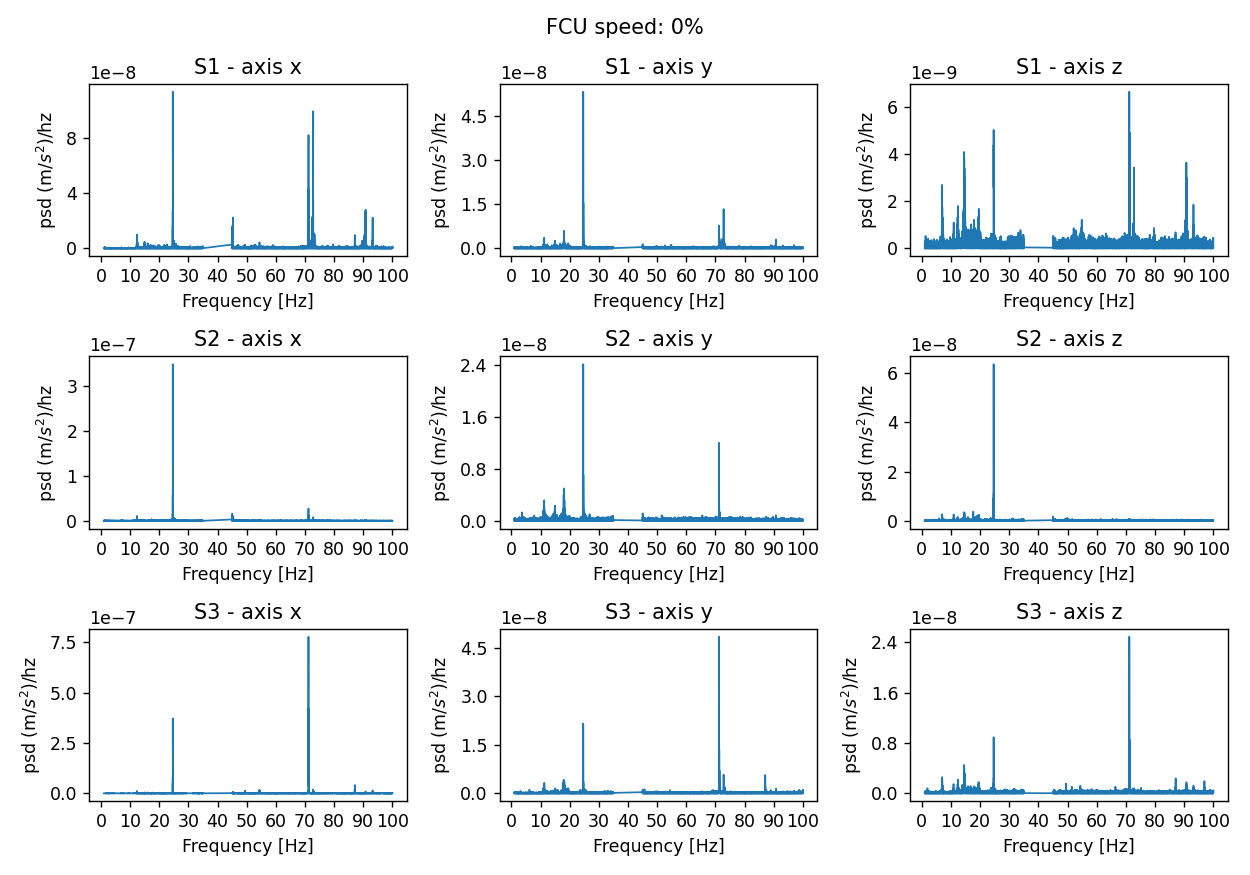
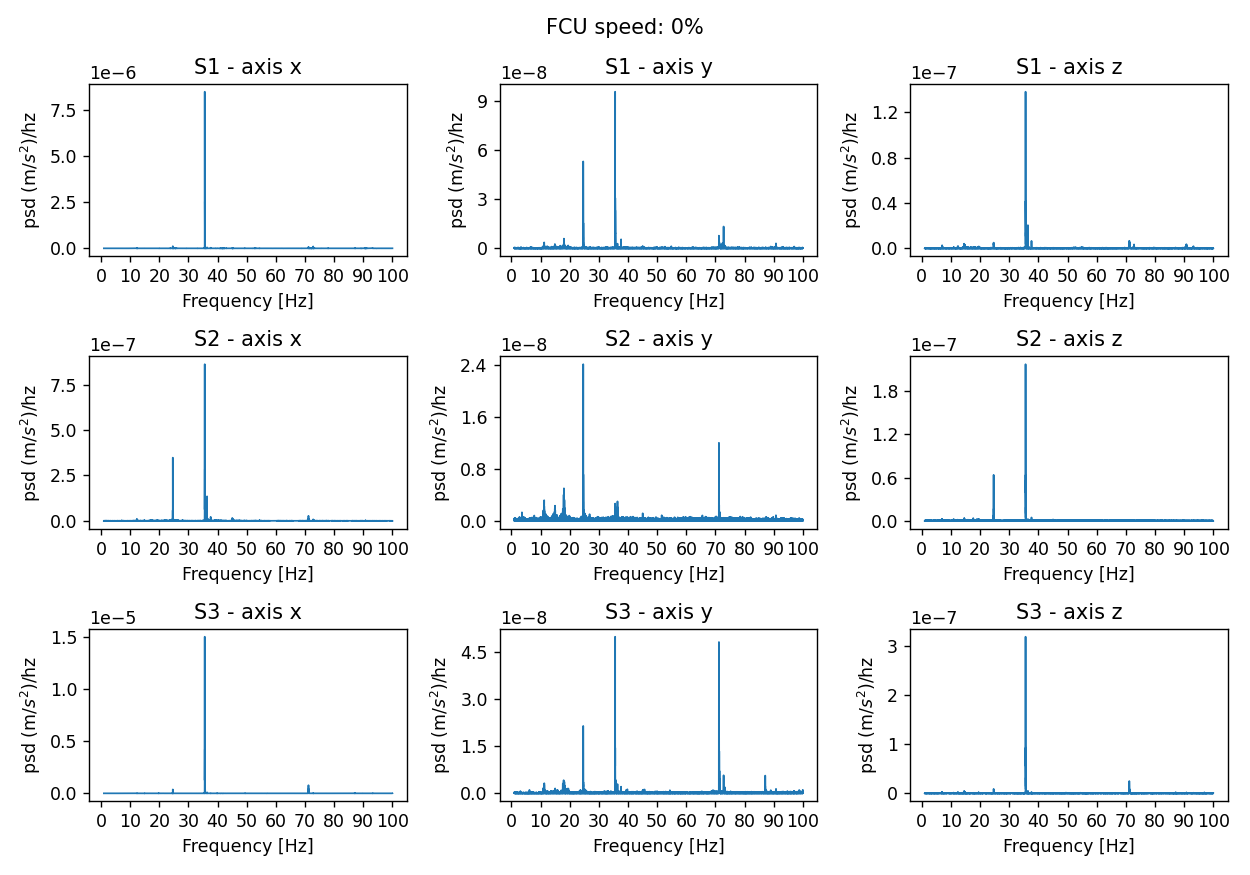
update tech note and add plots

diff --git a/index.rst b/index.rst
@@ -16,8 +16,8 @@ Investigation into vibrations in the M1M3 due to FCUs
 
    **This technote is a work-in-progress.**
 
-Abstract
-========
+Introduction
+============
 
 .. Assuming units of VMS = mg
 .. -displacement for total_1
@@ -31,8 +31,15 @@ Abstract
 ..  FCU off = 1.94 μm
 
 
-This technote uses data from the VMS, dc accelerometers and IMS to estimate the effect of the Fan Coil Units (FCUs) are likely to have on image quality
-Primarily we use the Vibration Monitoring System (VMS) of the M1M3 for more information see the VMS confluence page (link here).
+This technote uses data from the VMS, dc accelerometers and IMS to estimate the effect of the Fan Coil Units (FCUs) are likely to have on image quality.
+Primarily we use the Vibration Monitoring System (VMS) attached to M1M3 (for more information see the 
+`VMS confluence page <https://confluence.lsstcorp.org/pages/viewpage.action?pageId=156502157>`_).
+The description of the FCU is avaiable in 
+`SPIE 77331E <https://www.spiedigitallibrary.org/conference-proceedings-of-spie/7733/77331E/LSST-primarytertiary-mirror-thermal-control-system/10.1117/12.857438.short#_=_>`_.
+
+The VMS data are stored in a single hdf5 data file (/sdf/data/rubin/shared/mtm1m3_test_files/vms_data/2023/12/M1M3-2023-12-07T00:00.hdf) acquired on 2023/12/07. A description of the 
+data taking procedure with exact timing is available in a log file attached to the JIRA ticket `SITCOM-1131 <https://rubinobs.atlassian.net/browse/SITCOM-1131>`_ associated to this Technical Note. 
+The timing of each data taking period corresponding to the various fan speeds expressed in percent of the maximum speed is deduced from the log file.
 
 Times of events
 ================
@@ -45,8 +52,6 @@ Times of events
    |FCU state| Start Time             | End Time               |
    +=========+========================+========================+
    |       0 | 2023-12-07 14:20:00.00 | 2023-12-07 14:30:00.00 |
-   +---------+------------------------+------------------------+
-   |     100 | 2023-12-07 14:33:00.00 | 2023-12-07 14:50:00.00 |
    +---------+------------------------+------------------------+
    |      10 | 2023-12-07 14:55:30.00 | 2023-12-07 14:59:55.00 |
    +---------+------------------------+------------------------+
@@ -62,18 +67,37 @@ Times of events
    +---------+------------------------+------------------------+
    |      70 | 2023-12-07 15:26:05.00 | 2023-12-07 15:30:00.00 |
    +---------+------------------------+------------------------+
-   |      80 | 2023-12-07 15:30:05.00 | 2023-12-07 15:40:00.00 |
+   |      80 | 2023-12-07 15:31:05.00 | 2023-12-07 15:40:00.00 |
    +---------+------------------------+------------------------+
-   |      90 | 2023-12-07 15:40:40.00 | 2023-12-07 15:43:40.00 |
+   |      90 | 2023-12-07 17:48:55.00 | 2023-12-07 17:50:10.00 |
    +---------+------------------------+------------------------+
-   |      90 | 2023-12-07 15:48:55.00 | 2023-12-07 15:50:10.00 |
+   |     100 | 2023-12-07 14:33:00.00 | 2023-12-07 14:45:00.00 |
    +---------+------------------------+------------------------+
-   |     100 | 2023-12-07 15:53:00.00 | 2023-12-07 16:09:00.00 |
+   |     100 | 2023-12-07 17:51:30.00 | 2023-12-07 17:53:00.00 |
    +---------+------------------------+------------------------+
+
+Data quality
+============
+We have checked that the TMA was not moving during this test and that the mirror was raised (MTM1M3.logevent_detailedState == ACTIVEENGINEERING) with Hard Point in standby mode. 
+
+The second test was to check the VMS accelerometers sampling rate which is supposed to be 200 Hz. To do so, we compute the time difference (*delta t*) between consecutive samples.
+In the following plot (left), we see that while most of the samples are separated by ~0.005s (200 Hz), some samples are separated by ~0.00444s. If we plot *delta t* as a function of 
+the sample number (right plot) we see that this feature is periodic and could potentially impact the PSD analyses. This issue has been reported as a bug in the JIRA ticket 
+`DM-43219 <https://rubinobs.atlassian.net/browse/DM-43219>`_. Petr Kubanek pointed that the 200 Hz sampling rate is fixed by the hardware, so the observed behavior is probably due to a 
+wrong timestamp recording and will not affect the PSD analyses.
+
+.. figure:: /_static/images/sampling.png
+   :name: sampling
+   :target: _images/sampling.png
+   :alt: VMS sampling rate verification.
+
+   Histogram of the time between consecutive samples (left) - Time between consecutive samples as a function of the sample number (right).
+
 
 First event All 100% vs off
 ===========================
-The first event we look at is comparing the state with no fans on and the state will all fans running at 100%.
+We compare the state with fans off (0%) and the state will all fans running at 100% for various sensors.
+In the first plot the quantity refered as the total acceleration correspond to the norm of the acceleration vector measured by the accelerometers.
 
 Telemetry
 ---------
@@ -83,107 +107,163 @@ Telemetry
    :target: _images/vms_telemetry_1.png
    :alt: event 1 vms telemetry
 
-   VMS telemetry for all FCUs at 100% (blue) and all off (orange).
+   VMS total acceleration (norm of the acceleration vector) for all FCUs at 100% (blue) and all off (orange).
 
 .. figure:: /_static/images/hardpoints_telemetry_1.png
    :name: fig-hardpoints-telemetry-1
    :target: _images/hardpoints_telemetry_1.png
    :alt: event 1 hardpoints telemetry
 
-   hardpoints telemetry for all FCUs at 100% (blue) and all off (orange).
+   Hardpoints forces for all FCUs at 100% (blue) and all off (orange).
 
 .. figure:: /_static/images/dc_accelerometers_telemetry_1.png
    :name: fig-dc-accelerometers-telemetry-1
    :target: _images/dc_accelerometers_telemetry_1.png
    :alt: event 1 dc accelerometers telemetry
 
-   dc accelerometers telemetry for all FCUs at 100% (blue) and all off (orange).
+   Acceleration measured by dc accelerometers for all FCUs at 100% (blue) and all off (orange).
 
-See appendix for IMS behavior the system was not sensitive to vibrations.
+We clearly see that the FCU running at 100% has a measurable effect on M1M3. In the following section we will try to characterize this effect
+and check how it behaves while varying the fan speed.
+
 
 PSD analysis
+============
+
+For clarity reason and as we have multiple plots corresponding to the three sensors (accelerometers) each measuring the acceleration along 3 axes and for 11 values of the fan speed we
+choose to show only typical plots in this section. The whole set of plots will be given in the appendix.
+
+Acceleration
 ------------
 
-.. figure:: /_static/images/vms_psd_1.png
-   :name: fig-vms-psd-1
-   :target: _images/vms_psd_1.png
-   :alt: event 1 vms psd
+In the following plot we show the PSD acceleration for sensor 1 - z axis and for every fan speed. We see that there is a narrow peak at about 38 Hz which is visible
+for almost every speed. As the peak is present when the fans are not running, it is clear that its origin is not rekated to the FCU.
 
-   VMS psd for all FCUs at 100% (blue) and all off (orange).
+.. figure:: /_static/images/psd_sensor_3_axis_z.png
+   :name: psd_sensor_3_axis_z
+   :target: _images/psd_sensor_3_axis_z.png
+   :alt: PSD acceleration for sensor 3 - z axis and for every fan speed
 
-.. figure:: /_static/images/hardpoints_psd_1.png
-   :name: fig-hardpoints-psd-1
-   :target: _images/hardpoints_psd_1.png
-   :alt: event 1 hardpoints psd
+   PSD acceleration for sensor 3 - z axis and for every fan speed
 
-   hardpoints psd for all FCUs at 100% (blue) and all off (orange).
+The only significant feature which is likely related to the fan speed is the broad peak which appears at 80% speed and which moves from ~40 Hz at 80%, ~65 Hz at 90% and 
+up to ~98 Hz at 100% speed (notice that the peak at 98 Hz is present in both datasets acquired at 100% speed and taken more than 2 hours apart).
+The same behavior is observed in most of the cases (sensors and axes). The most pronounced effect is along the z axis.
 
-.. figure:: /_static/images/dc_accelerometers_psd_1.png
-   :name: fig-dc-accelerometers-psd-1
-   :target: _images/dc_accelerometers_psd_1.png
-   :alt: event 1 dc accelerometers psd
+For comparison we show the same plot but for sensor 1 and y axis.
 
-   dc accelerometers psd for all FCUs at 100% (blue) and all off (orange).
+.. figure:: /_static/images/psd_sensor_1_axis_y.png
+   :name: psd_sensor_1_axis_y
+   :target: _images/psd_sensor_1_axis_y.png
+   :alt: PSD acceleration for sensor 1 - y axis and for every fan speed
 
-VMS low frequency
------------------
+   PSD acceleration for sensor 1 - y axis and for every fan speed
 
-.. figure:: /_static/images/vms_telemetry_zoom_1.png
-   :name: fig-vms-telemetry-zoom-1
-   :target: _images/vms_telemetry_zoom_1.png
-   :alt: event 1 vms telemetry zoom
+The following plot is showing the PSD acceleration for a fan speed set at 80% and for the 3 sensors and the 3 axes. 
 
-   VMS telemetry zoom for all FCUs at 100% (blue) and all off (orange). We see a low frequency oscillation that could be beating due to variations in the FCU frequencies.
+.. figure:: /_static/images/psd_speed_80.png
+   :name: psd_speed_80
+   :target: _images/psd_speed_80.png
+   :alt: PSD acceleration for a fan speed set at 80% and for the 3 sensors and the 3 axes
 
-PSD analysis for FCUs powered at different speeds
-=================================================
-First we show PSDs (nomalized to have a peak of 1) for each fan state and each channel.
+   PSD acceleration for a fan speed set at 80% and for the 3 sensors and the 3 axes
 
-.. figure:: /_static/images/total_1_psd_comp.png
-   :name: fig-total-psd-comp-1
-   :target: _images/total_1_psd_comp.png
-   :alt: compare psd across fan states
+The appearance of the broad peak around 40 Hz is clearly visible in all cases. The effect is nevertheless much less pronounced for Sensor 2. 
 
-   The legend shows the commanded power for each line (going from off, 0%, to full power, 100%). This data is the total acceleration from channel 1 M1M3 VMS.
+Displacement
+------------
 
-.. figure:: /_static/images/total_2_psd_comp.png
-   :name: fig-total-psd-comp-2
-   :target: _images/total_2_psd_comp.png
-   :alt: compare psd across fan states
+The following plot shows the cumulative displacement computed for Sensor 1 and x axis:
 
-   The legend shows the commanded power for each line (going from off, 0%, to full power, 100%). This data is the total acceleration from channel 2 M1M3 VMS.
+.. figure:: /_static/images/psd_cumul_disp_sensor_1_axis_x.png
+   :name: psd_cumul_disp_sensor_1_axis_x
+   :target: _psd_cumul_disp_sensor_1_axis_x.png
+   :alt: Cumulative displacement for Sensor 1 and x axis
 
-.. figure:: /_static/images/total_3_psd_comp.png
-   :name: fig-total-psd-comp-3
-   :target: _images/total_3_psd_comp.png
-   :alt: compare psd across fan states
+   Cumulative displacement for Sensor 1 and x axis
 
-   The legend shows the commanded power for each line (going from off, 0%, to full power, 100%). This data is the total acceleration from channel 3 M1M3 VMS.
+As expected the highest contributions to the displacement is coming from the the low frequencies. The effect of the FCU on the displacement is only noticeable for the first dataset
+with fans running at 100% speed. This effect is not visible in the second 100% speed dataset (which is much shorter). The same behavior is observable for all the sensors and all
+the axes.
 
-.. figure:: /_static/images/displacement_comp.png
-   :name: fig-displacement-comp
-   :target: _images/displacement_comp.png
+Conclusions
+===========
 
-   Comparison of the displacement rms for all frequencies above 1 Hz as a function of fan power state, each row shows the behavior for one of the VMS channels.
+From this study we conclude that we see an effect of the FCU when running at 100% speed. The PSD analysis exhibits a broad peak in the spectrum for speeds
+larger than 80% of the maximium speed. The contribution of this peak to the mirror displacement is negligeable at all speeds and the only sigificant contribution to the displacement
+is seen at 100% speed, probably coming from the lower frequencies.
 
-.. figure:: /_static/images/duration_comp.png
-   :name: fig-duration-comp
-   :target: _images/duration_comp.png
+The significance of this analysis is limited by the size of the dataset and the fact that we only have one set of measurements per speed (2 for 100%). It is difficult to disentangle
+the effect of contributions external to the FCU.
 
-   Comparison of the duration of the measurement window for the measurement of the VMS telemetry a function of fan power state.
+The measurements will have to be repeated when the glass mirror is in place.
 
 Appendix
 =========
-.. figure:: /_static/images/ims_positions_1.png
-   :name: fig-ims-positions
-   :target: _images/ims_positions_1.png
-   :alt: event 1 IMS positions telemetry
 
-   IMS positions during event 1
+In this appendix we put all the plots corresponding to the PSD analysis for the 3 sensors and the 3 axes.
 
-.. figure:: /_static/images/ims_rotations_1.png
-   :name: fig-ims-rotations
-   :target: _images/ims_rotations_1.png
-   :alt: event 1 IMS rotations telemetry
+.. figure:: /_static/images/psd_sensor_1_axis_x.png
+   :name: psd_sensor_1_axis_x
+   :target: _images/psd_sensor_1_axis_x.png
+   :alt: PSD acceleration for sensor 1 - x axis and for every fan speed
 
-   IMS rotations during event 1
+   PSD acceleration for sensor 1 - x axis and for every fan speed
+
+.. figure:: /_static/images/psd_sensor_1_axis_y.png
+   :name: psd_sensor_1_b_axis_y
+   :target: _images/psd_sensor_1_axis_y.png
+   :alt: PSD acceleration for sensor 1 - y axis and for every fan speed
+
+   PSD acceleration for sensor 1 - y axis and for every fan speed
+
+.. figure:: /_static/images/psd_sensor_1_axis_z.png
+   :name: psd_sensor_1_axis_z
+   :target: _images/psd_sensor_1_axis_z.png
+   :alt: PSD acceleration for sensor 1 - z axis and for every fan speed
+
+   PSD acceleration for sensor 1 - z axis and for every fan speed
+
+.. figure:: /_static/images/psd_sensor_2_axis_x.png
+   :name: psd_sensor_2_axis_x
+   :target: _images/psd_sensor_2_axis_x.png
+   :alt: PSD acceleration for sensor 2 - x axis and for every fan speed
+
+   PSD acceleration for sensor 2 - x axis and for every fan speed
+
+.. figure:: /_static/images/psd_sensor_2_axis_y.png
+   :name: psd_sensor_2_axis_y
+   :target: _images/psd_sensor_2_axis_y.png
+   :alt: PSD acceleration for sensor 2 - y axis and for every fan speed
+
+   PSD acceleration for sensor 2 - z axis and for every fan speed
+   
+.. figure:: /_static/images/psd_sensor_2_axis_z.png
+   :name: psd_sensor_2_axis_z
+   :target: _images/psd_sensor_2_axis_z.png
+   :alt: PSD acceleration for sensor 2 - z axis and for every fan speed
+
+   PSD acceleration for sensor 2 - z axis and for every fan speed
+
+.. figure:: /_static/images/psd_sensor_3_axis_x.png
+   :name: psd_sensor_3_axis_x
+   :target: _images/psd_sensor_3_axis_x.png
+   :alt: PSD acceleration for sensor 3 - x axis and for every fan speed
+
+   PSD acceleration for sensor 3 - x axis and for every fan speed
+
+.. figure:: /_static/images/psd_sensor_3_axis_y.png
+   :name: psd_sensor_3_axis_y
+   :target: _images/psd_sensor_3_axis_y.png
+   :alt: PSD acceleration for sensor 3 - y axis and for every fan speed
+
+   PSD acceleration for sensor 3 - y axis and for every fan speed
+
+.. figure:: /_static/images/psd_sensor_3_axis_z.png
+   :name: psd_sensor_3_b_axis_z
+   :target: _images/psd_sensor_3_axis_z.png
+   :alt: PSD acceleration for sensor 3 - z axis and for every fan speed
+
+   PSD acceleration for sensor 3 - z axis and for every fan speed
+
+
